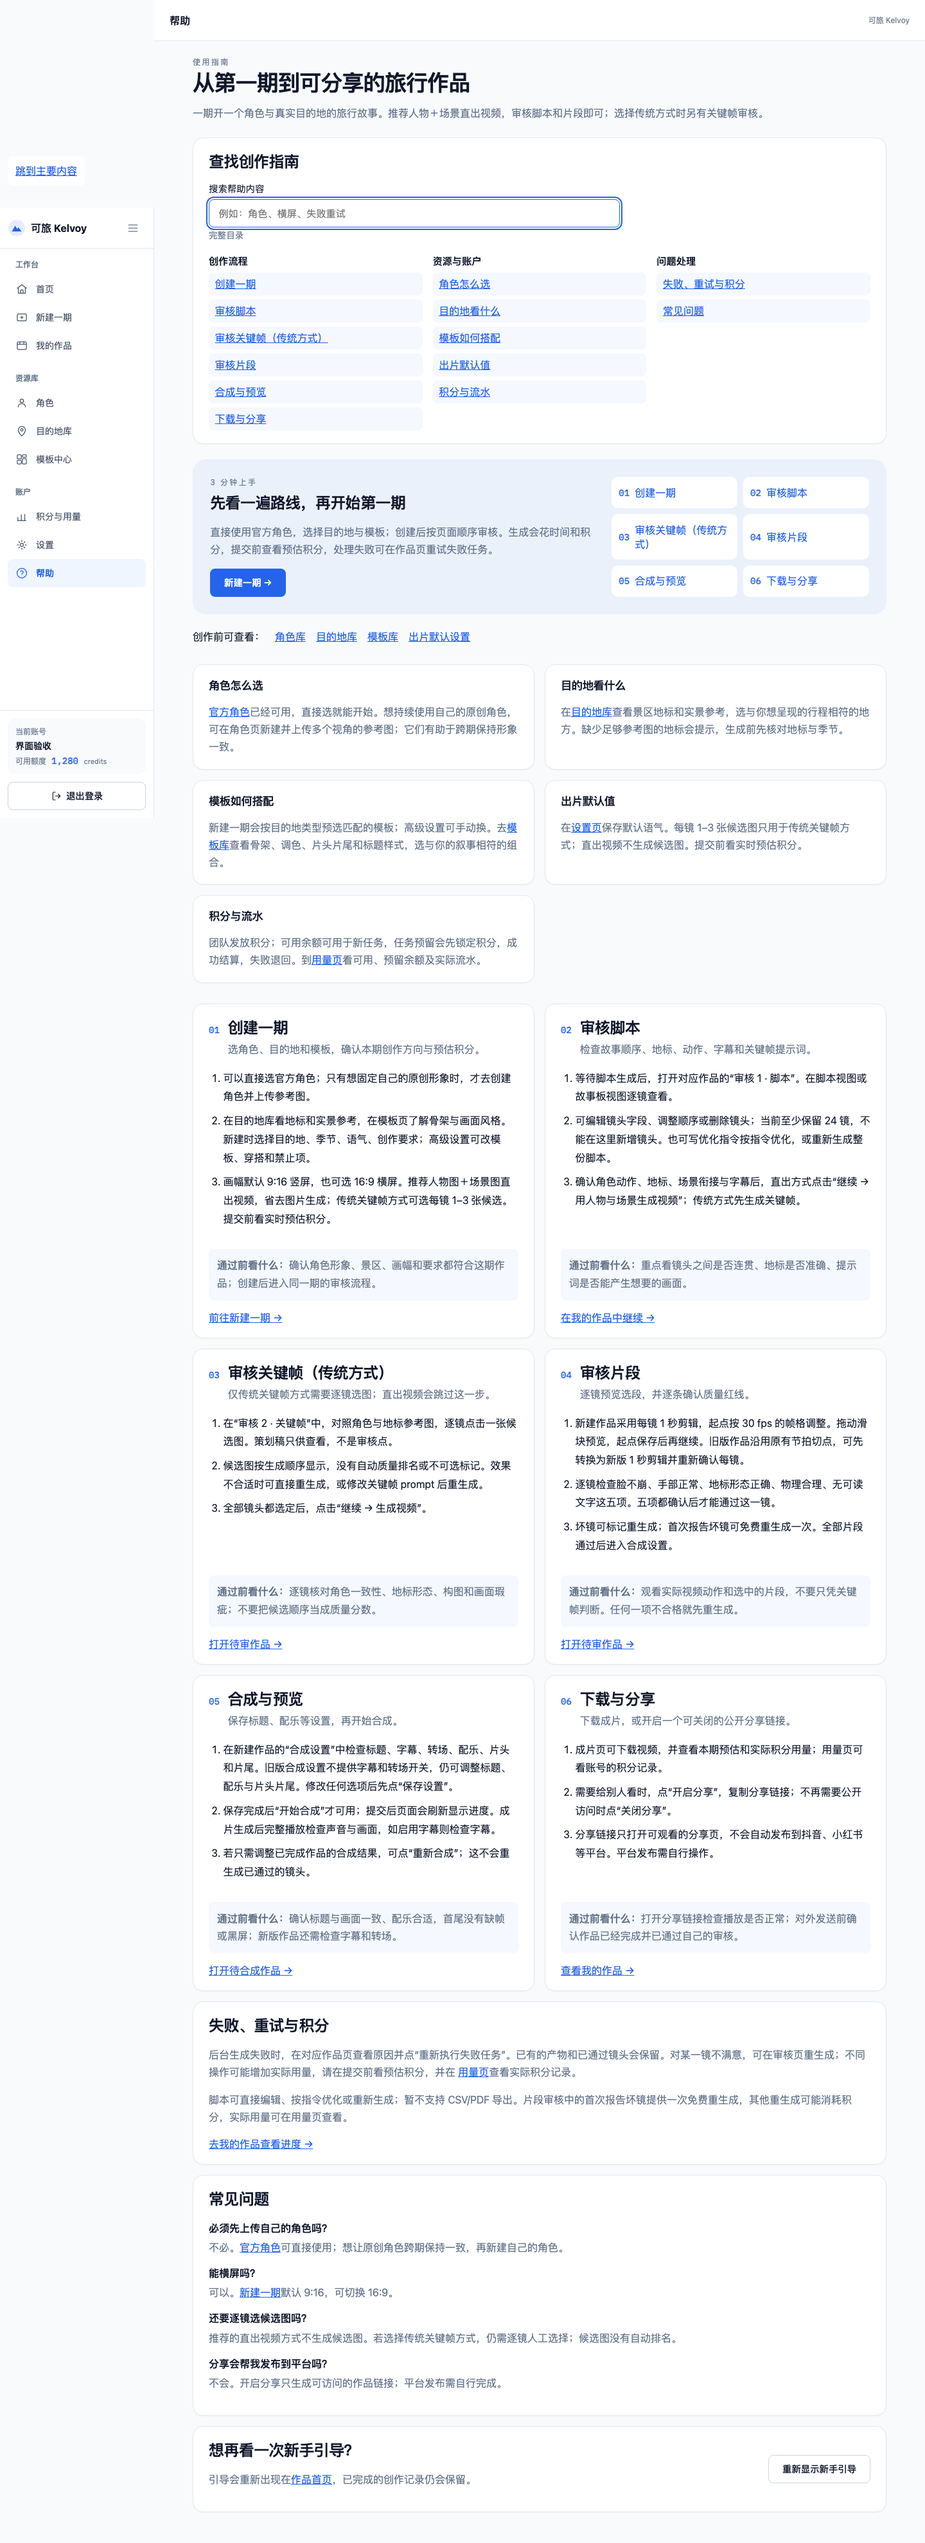
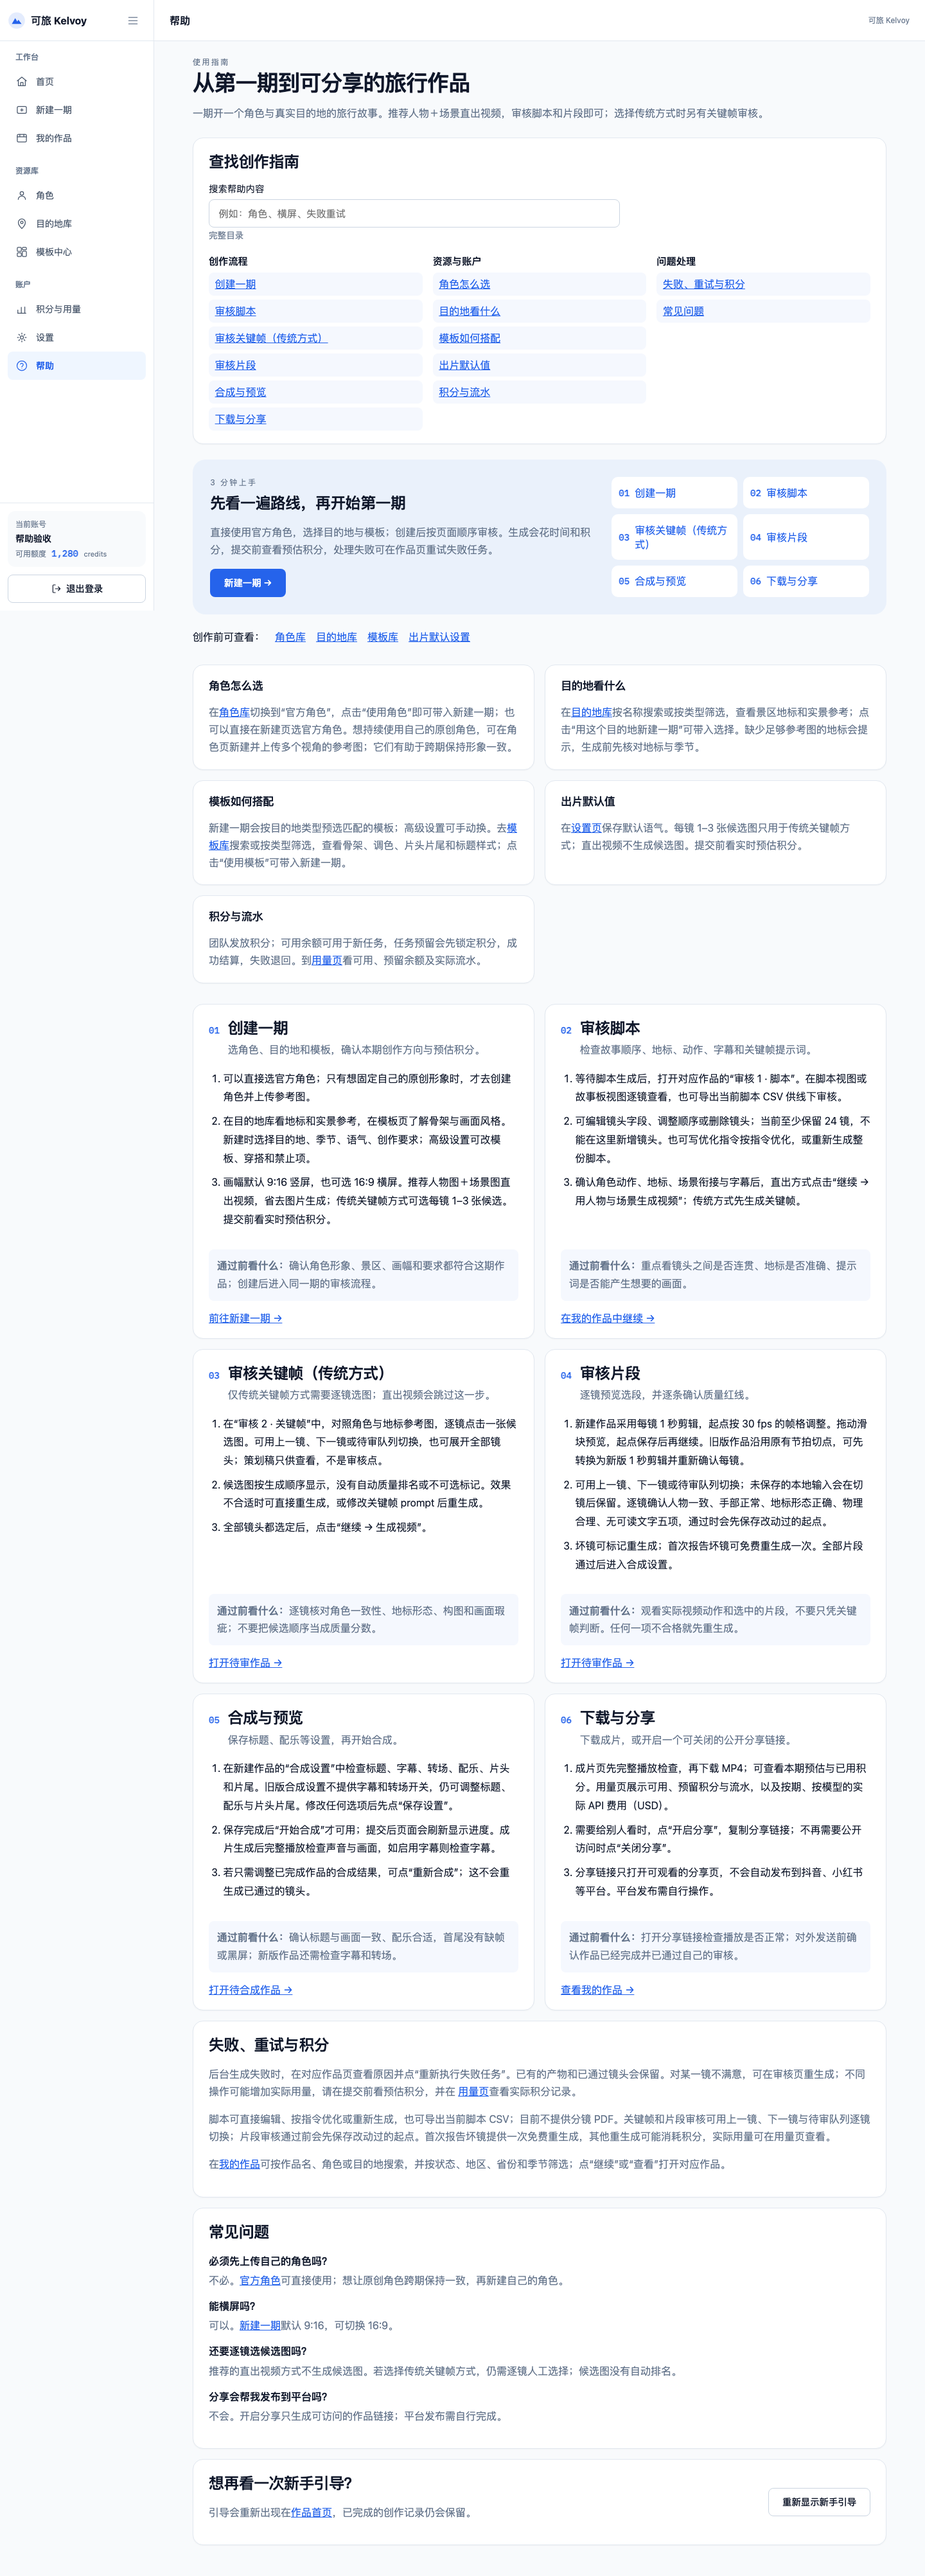
docs(web): align help with merged review and delivery flows

diff --git a/apps/web/src/frontend/guide.ts b/apps/web/src/frontend/guide.ts
@@ -22,7 +22,7 @@ export const GUIDE_SECTIONS = [
     href: "/works",
     action: "在我的作品中继续",
     steps: [
-      "等待脚本生成后，打开对应作品的“审核 1 · 脚本”。在脚本视图或故事板视图逐镜查看。",
+      "等待脚本生成后，打开对应作品的“审核 1 · 脚本”。在脚本视图或故事板视图逐镜查看，也可导出当前脚本 CSV 供线下审核。",
       "可编辑镜头字段、调整顺序或删除镜头；当前至少保留 24 镜，不能在这里新增镜头。也可写优化指令按指令优化，或重新生成整份脚本。",
       "确认角色动作、地标、场景衔接与字幕后，直出方式点击“继续 → 用人物与场景生成视频”；传统方式先生成关键帧。",
     ],
@@ -36,7 +36,7 @@ export const GUIDE_SECTIONS = [
     href: "/works",
     action: "打开待审作品",
     steps: [
-      "在“审核 2 · 关键帧”中，对照角色与地标参考图，逐镜点击一张候选图。策划稿只供查看，不是审核点。",
+      "在“审核 2 · 关键帧”中，对照角色与地标参考图，逐镜点击一张候选图。可用上一镜、下一镜或待审队列切换，也可展开全部镜头；策划稿只供查看，不是审核点。",
       "候选图按生成顺序显示，没有自动质量排名或不可选标记。效果不合适时可直接重生成，或修改关键帧 prompt 后重生成。",
       "全部镜头都选定后，点击“继续 → 生成视频”。",
     ],
@@ -51,7 +51,7 @@ export const GUIDE_SECTIONS = [
     action: "打开待审作品",
     steps: [
       "新建作品采用每镜 1 秒剪辑，起点按 30 fps 的帧格调整。拖动滑块预览，起点保存后再继续。旧版作品沿用原有节拍切点，可先转换为新版 1 秒剪辑并重新确认每镜。",
-      "逐镜检查脸不崩、手部正常、地标形态正确、物理合理、无可读文字这五项。五项都确认后才能通过这一镜。",
+      "可用上一镜、下一镜或待审队列切换；未保存的本地输入会在切镜后保留。逐镜确认人物一致、手部正常、地标形态正确、物理合理、无可读文字五项，通过时会先保存改动过的起点。",
       "坏镜可标记重生成；首次报告坏镜可免费重生成一次。全部片段通过后进入合成设置。",
     ],
     review: "观看实际视频动作和选中的片段，不要只凭关键帧判断。任何一项不合格就先重生成。",
@@ -78,7 +78,7 @@ export const GUIDE_SECTIONS = [
     href: "/works",
     action: "查看我的作品",
     steps: [
-      "成片页可下载视频，并查看本期预估和实际积分用量；用量页可看账号的积分记录。",
+      "成片页先完整播放检查，再下载 MP4；可查看本期预估与已用积分。用量页展示可用、预留积分与流水，以及按期、按模型的实际 API 费用（USD）。",
       "需要给别人看时，点“开启分享”，复制分享链接；不再需要公开访问时点“关闭分享”。",
       "分享链接只打开可观看的分享页，不会自动发布到抖音、小红书等平台。平台发布需自行操作。",
     ],

diff --git a/apps/web/src/frontend/pages/help-search.ts b/apps/web/src/frontend/pages/help-search.ts
@@ -21,7 +21,7 @@ export const HELP_SEARCH_ITEMS: readonly HelpSearchItem[] = [
   { id: "templates", title: "模板如何搭配", group: "资源与账户", text: "模板库搜索或按类型筛选，查看骨架、调色、片头片尾和标题样式，带入新建一期。" },
   { id: "settings", title: "出片默认值", group: "资源与账户", text: "设置默认语气和传统关键帧方式每镜候选数。" },
   { id: "credits", title: "积分与流水", group: "资源与账户", text: "积分可用余额、任务预留、成功结算、失败退回与实际用量。" },
-  { id: "retries", title: "失败、重试与积分", group: "问题处理", text: "我的作品可按作品名、角色、目的地搜索，按状态、地区、省份、季节筛选；后台生成失败后重新执行失败任务。已有产物与已通过镜头保留。脚本编辑、指令优化或重新生成；暂不支持 CSV/PDF 导出。片段审核首次报告坏镜免费重生成，其他操作可能增加实际积分。" },
+  { id: "retries", title: "失败、重试与积分", group: "问题处理", text: "我的作品可按作品名、角色、目的地搜索，按状态、地区、省份、季节筛选；后台生成失败后重新执行失败任务。已有产物与已通过镜头保留。脚本编辑、指令优化或重新生成；可导出 CSV，暂不提供分镜 PDF。关键帧与片段审核可用上一镜、下一镜及待审队列切换，片段起点在通过前保存。首次报告坏镜免费重生成，其他操作可能增加实际积分。" },
   { id: "faq", title: "常见问题", group: "问题处理", text: "官方角色、横屏 16:9、关键帧候选图、分享链接与平台发布。" },
 ];
 

diff --git a/apps/web/src/frontend/pages/HelpPage.tsx b/apps/web/src/frontend/pages/HelpPage.tsx
@@ -140,7 +140,7 @@ export default function HelpPage() {
       <section className="k-card k-help-extra" id="retries" tabIndex={-1}>
         <h2>失败、重试与积分</h2>
         <p>后台生成失败时，在对应作品页查看原因并点“重新执行失败任务”。已有的产物和已通过镜头会保留。对某一镜不满意，可在审核页重生成；不同操作可能增加实际用量，请在提交前看预估积分，并在 <Link to="/usage">用量页</Link>查看实际积分记录。</p>
-        <p>脚本可直接编辑、按指令优化或重新生成；暂不支持 CSV/PDF 导出。片段审核中的首次报告坏镜提供一次免费重生成，其他重生成可能消耗积分，实际用量可在用量页查看。</p>
+        <p>脚本可直接编辑、按指令优化或重新生成，也可导出当前脚本 CSV；目前不提供分镜 PDF。关键帧和片段审核可用上一镜、下一镜与待审队列逐镜切换；片段审核通过前会先保存改动过的起点。首次报告坏镜提供一次免费重生成，其他重生成可能消耗积分，实际用量可在用量页查看。</p>
         <p>在<Link to="/works">我的作品</Link>可按作品名、角色或目的地搜索，并按状态、地区、省份和季节筛选；点“继续”或“查看”打开对应作品。</p>
       </section>
 

diff --git a/apps/web/src/frontend/pages/HelpPage.test.tsx b/apps/web/src/frontend/pages/HelpPage.test.tsx
@@ -33,7 +33,10 @@ test("guide renders six anchored stages and links to live workspace routes", () 
   expect(html).toContain("不会自动发布");
   expect(html).toContain("重新显示新手引导");
   expect(html).toContain("新建一期会按目的地类型预选匹配的模板");
-  expect(html).toContain("暂不支持 CSV/PDF 导出");
+  expect(html).toContain("导出当前脚本 CSV");
+  expect(html).toContain("目前不提供分镜 PDF");
+  expect(html).toContain("按模型的实际 API 费用");
+  expect(html).toContain("通过时会先保存改动过的起点");
   expect(html).toContain("切换到“官方角色”");
   expect(html).toContain("按名称搜索或按类型筛选");
   expect(html).toContain("按状态、地区、省份和季节筛选");

diff --git a/docs/ui/v8-pr12/validation.md b/docs/ui/v8-pr12/validation.md
@@ -15,3 +15,9 @@
 2026-09-28 合入 `origin/main` 的 PR05/PR06 后核对实际页面：角色库默认显示“我的角色”，因此帮助页明确指示切换“官方角色”；目的地和模板库已支持搜索、按类型筛选及带参进入新建页，帮助页补充对应操作；作品列表已支持搜索与状态、地区、省份、季节筛选，帮助页补充入口与“继续/查看”的准确动作。原有 `/personas`、`/destinations`、`/templates`、`/works`、`/episodes/new` 链接均对应现行路由。
 
 本轮验证：`make typecheck` 五个 workspace 通过，`make test` 658 个 Bun 测试及 64 个 Python 测试通过，Web 生产构建 221 模块通过。PR08–PR11 最终页面尚未合并，相关阶段说明待后续复核。
+
+## 最终跨页核对（PR08–PR11 已合并）
+
+以 `origin/main` 的 PR08–PR11 最终页面为准复核：帮助正文与搜索索引已改为“脚本可导出当前 CSV、分镜 PDF 暂无产物”；关键帧和片段页支持上一镜、下一镜、待审队列及展开全部镜头，切镜保留本地输入；片段通过前会先保存改动过的起点。成片页按实际画幅播放并提供 MP4 下载，积分页展示真实账户余额、流水、按期与按模型的 API 费用，不宣称已有实测 GPU 分钟。
+
+更新帮助页 1440px 与 390px 截图。隔离浏览器夹具验证 390px 搜索“CSV”能找到“审核脚本”，两个视口页面宽度与视口一致，且无 JavaScript 异常。截图和搜索验收只覆盖前端；真实视频播放、下载、权限及两期作品联合验收留待 PR13。
